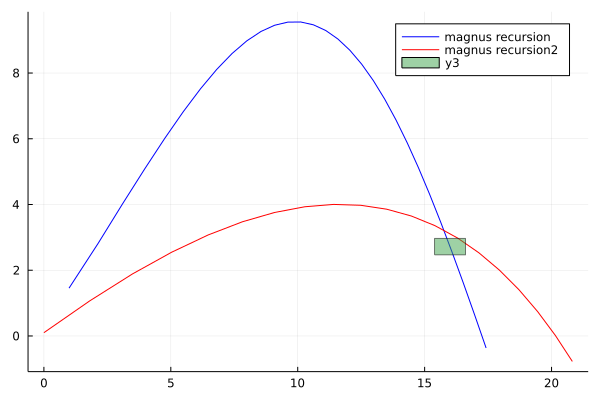
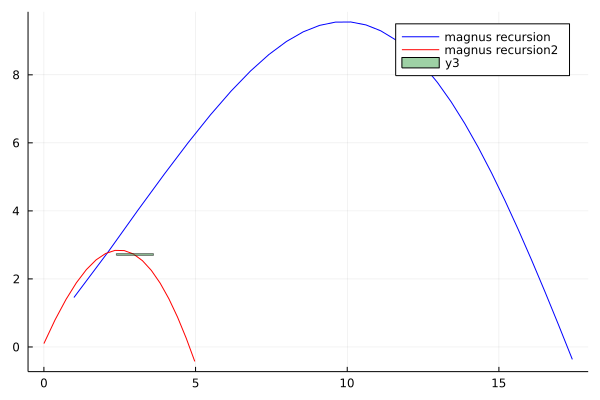
2D optimization actually finished

diff --git a/skynet-robot-libary/src/main/java/frc/robot/lib/Meth/Target.java b/skynet-robot-libary/src/main/java/frc/robot/lib/Meth/Target.java
@@ -31,18 +31,92 @@ public class Target {
         this.minimum_entry_velocity = minimum_entry_velocity;
     }
 
-    // private double LineFunction(double x, double slope, double x1, double y1) {
-    // return (slope * x) - (slope * x1) + y1;
+    // private double LineFunction(double x, double slope, double
+    // startA.getComponent(0), double startA.getComponent(1)) {
+    // return (slope * x) - (slope * startA.getComponent(0)) +
+    // startA.getComponent(1);
     // }
+
+    private static Boolean LineLine(Vector startA, Vector endA, Vector startB, Vector endB) {
+        // Boolean Avertical = (endA.getComponent(0) - startA.getComponent(0)) == 0;
+        // Boolean Bvertical = (endB.getComponent(0) - startB.getComponent(0)) == 0;
+
+        // if (!Avertical && !Bvertical) {
+        // double slopeA = (endA.getComponent(1) - startA.getComponent(1))
+        // / ((endA.getComponent(0) - startA.getComponent(0)) + 0.1);
+        // double slopeB = (endB.getComponent(1) - startB.getComponent(1))
+        // / ((endB.getComponent(0) - startB.getComponent(0)) + 0.1);
+        // double heightA = slopeA * (-startA.getComponent(0)) + startA.getComponent(1);
+        // double heightB = slopeB * (-startB.getComponent(0)) + startB.getComponent(1);
+
+        // if (slopeA == slopeB)
+        // return false;
+
+        // double interceptionX = (heightB - heightA) / ((slopeA - slopeB));
+        // double interceptionY = slopeA * (interceptionX - startA.getComponent(0)) +
+        // startA.getComponent(1);
+
+        // return ((interceptionX >= startA.getComponent(0) && interceptionX <=
+        // endA.getComponent(0))
+        // && (interceptionY >= startA.getComponent(1) && interceptionY <=
+        // endA.getComponent(1)));
+        // } else if (Avertical) {
+        // double slopeB = (endB.getComponent(1) - startB.getComponent(1))
+        // / ((endB.getComponent(0) - startB.getComponent(0)) + 0.1);
+        // Double heightB = slopeB * (-startB.getComponent(0)) + startB.getComponent(1);
+
+        // Double interceptionX = startA.getComponent(0);
+        // Double interceptionY = slopeB * startA.getComponent(0) + heightB;
+
+        // return ((interceptionX >= startA.getComponent(0) && interceptionX <=
+        // endA.getComponent(0))
+        // && (interceptionY >= startA.getComponent(1) && interceptionY <=
+        // endA.getComponent(1)));
+        // } else if (Bvertical) {
+        // double slopeA = (endA.getComponent(1) - startA.getComponent(1))
+        // / ((endA.getComponent(0) - startA.getComponent(0)) + 0.1);
+        // Double heightA = slopeA * (-startA.getComponent(0)) + startA.getComponent(1);
+
+        // Double interceptionX = startB.getComponent(0);
+        // Double interceptionY = slopeA * startB.getComponent(0) + heightA;
+
+        // return ((interceptionX >= startA.getComponent(0) && interceptionX <=
+        // endA.getComponent(0))
+        // && (interceptionY >= startA.getComponent(1) && interceptionY <=
+        // endA.getComponent(1)));
+        // } else
+        // return false;
+
+        double x1 = startA.getComponent(0); // line controlled by mouse
+        double y1 = startA.getComponent(1);
+        double x2 = endA.getComponent(0); // fixed end
+        double y2 = endA.getComponent(1);
+
+        double x3 = startB.getComponent(0); // static line
+        double y3 = startB.getComponent(1);
+        double x4 = endB.getComponent(0);
+        double y4 = endB.getComponent(1);
+
+        double uA = ((x4 - x3) * (y1 - y3) - (y4 - y3) * (x1 - x3))
+                / ((y4 - y3) * (x2 - x1) - (x4 - x3) * (y2 - y1) + 0.001);
+
+        double uB = ((x2 - x1) * (y1 - y3) - (y2 - y1) * (x1 - x3))
+                / ((y4 - y3) * (x2 - x1) - (x4 - x3) * (y2 - y1) + 0.001);
+
+        if (uA >= 0 && uA <= 1 && uB >= 0 && uB <= 1) {
+            return true;
+        }
+        return false;
+    }
 
     public Boolean check(ArrayList<State> states) {
         if (states.size() < 5)
             return false;
         Segment segment = new Segment(0.0, 0.0, 0.0, 0.0); // LX LY CX CY
-        double x_max = this.x_pos + x_size / 2.0;
-        double x_min = this.x_pos - x_size / 2.0;
-        double y_max = this.y_pos + y_size / 2.0;
-        double y_min = this.y_pos - y_size / 2.0;
+        double x_max = this.x_pos + (x_size / 2.0);
+        double x_min = this.x_pos - (x_size / 2.0);
+        double y_max = this.y_pos + (y_size / 2.0);
+        double y_min = this.y_pos - (y_size / 2.0);
 
         for (int index = 0; index < states.size(); index++) {
             segment.LX = segment.CX;
@@ -50,21 +124,25 @@ public class Target {
             segment.CX = states.get(index).position.getComponent(0);
             segment.CY = states.get(index).position.getComponent(1);
 
-            double angle_deg = Math.toDegrees(Math.atan2(segment.LY - segment.CY, segment.LX - segment.CX));
+            double angle_deg = -(Math.toDegrees(Math.atan2(segment.CY - segment.LY, segment.CX - segment.LX)));
             double velocity = new Vector(segment.CX - segment.LX, segment.CY - segment.LY).getMagnitude();
 
-            if (segment.CX >= x_min && segment.LX <= x_max) {
-                if (segment.LY >= y_min && segment.CY <= y_max) {
-                    if (true) { // Z AXIS TBD
-                        if (angle_deg >= minimum_entry_angle && angle_deg <= maximum_entry_angle) {
-                            if (velocity >= minimum_entry_velocity && velocity <= maximum_entry_velocity) {
-                                System.out.println("SEGMENTY " + segment.LY + " " + segment.CY);
-                                return true;
-                            }
+            if (LineLine(new Vector(segment.LX, segment.LY), new Vector(segment.CX, segment.CY),
+                    new Vector(x_min, y_max), new Vector(x_max, y_max))
+                    || LineLine(new Vector(segment.LX, segment.LY), new Vector(segment.CX, segment.CY),
+                            new Vector(x_min, y_min), new Vector(x_max, y_min))
+                    || LineLine(new Vector(segment.LX, segment.LY), new Vector(segment.CX, segment.CY),
+                            new Vector(x_min, y_max), new Vector(x_min, y_min))
+                    ||
+                    LineLine(new Vector(segment.LX, segment.LY), new Vector(segment.CX, segment.CY),
+                            new Vector(x_max, y_max), new Vector(x_max, y_min))) {
+                if (true) { // Z AXIS TBD
+                    if (angle_deg >= minimum_entry_angle && angle_deg <= maximum_entry_angle) {
+                        if (velocity >= minimum_entry_velocity && velocity <= maximum_entry_velocity) {
+                            return true;
                         }
                     }
                 }
-
             }
 
         }

diff --git a/skynet-robot-libary/src/main/java/frc/robot/lib/Meth/shooter_optimiztion.java b/skynet-robot-libary/src/main/java/frc/robot/lib/Meth/shooter_optimiztion.java
@@ -58,7 +58,7 @@ public final class shooter_optimiztion {
         double TopCircumference = (TopmDiameter) * Math.PI;
 
         double BottominDiameter = 4;
-        double BottommDiameter = Units.inchesToMeters(TopinDiameter);
+        double BottommDiameter = Units.inchesToMeters(BottominDiameter);
         double BottomCircumference = (BottommDiameter) * Math.PI;
 
         ///////////////////////////
@@ -66,13 +66,14 @@ public final class shooter_optimiztion {
 
         Double Angle_Resolution = 1.0; // DEGREES
         Double Rotation_Ratio_Resolution = 0.1; // PERCENTAGE
-        Double RPM_Resolution = 100.0; // RPM
+        Double RPM_Resolution = 25.0; // RPM
 
         Double Initial_Angle = (shooting_angle != OptimizationType.MAXIMIZE) ? Max_Angle : Min_Angle;
         Double Angle_Increment = (shooting_angle != OptimizationType.MAXIMIZE) ? -Angle_Resolution : Angle_Resolution;
         Double Current_Angle = Initial_Angle;
 
-        Double Initial_Rotation_Ratio = (spin_dierction != OptimizationType.MAXIMIZE) ? 1.0 : 0.0;
+        Double Initial_Rotation_Ratio = (spin_dierction != OptimizationType.MAXIMIZE) ? 1 - (Min_RPM / Max_RPM)
+                : (Min_RPM / Max_RPM);
         Double Rotation_Ratio_Increment = (spin_dierction != OptimizationType.MAXIMIZE) ? -Rotation_Ratio_Resolution
                 : Rotation_Ratio_Resolution;
         Double Current_Rotation_Ratio = (spin_dierction == OptimizationType.IGNORE) ? -1.0 : Initial_Rotation_Ratio;
@@ -106,6 +107,7 @@ public final class shooter_optimiztion {
 
                 ArrayList<State> states = projectile.simulate_ball(false);
                 Boolean result = target.check(states);
+
                 if (result) {
                     states_to_pos(states);
                 }
@@ -124,29 +126,40 @@ public final class shooter_optimiztion {
 
         Integer Attempts = 0;
 
+        Double BestTopRPM = 0.0;
+        Double BestBottomRPM = 0.0;
+        Double BestAngle = 0.0;
+
         Current_Angle = Initial_Angle;
         while (shooting_angle == OptimizationType.MAXIMIZE ? Current_Angle <= Max_Angle : Current_Angle >= Min_Angle) {
             Current_RPM = Initial_RPM;
             while (shooting_RPM == OptimizationType.MAXIMIZE ? Current_RPM <= Max_RPM : Current_RPM >= Min_RPM) {
+                Current_Rotation_Ratio = Initial_Rotation_Ratio;
+                do {
 
-                Attempts++;
-                if (full_check.run(Current_Angle, Current_RPM, Current_Rotation_Ratio)) {
-                    Failures = 0;
-                    results++;
+                    Attempts++;
+                    if (full_check.run(Current_Angle, Current_RPM, Current_Rotation_Ratio)) {
+                        Failures = 0;
+                        results++;
+                        BestTopRPM = (spin_dierction != OptimizationType.IGNORE)
+                                ? Current_RPM * Current_Rotation_Ratio
+                                : Current_RPM;
 
-                    // System.out.println("HIT> " + Current_RPM + " " + Current_Angle);
-                } else {
-                    // System.out.println("NOHIT");
-                    Failures++;
-                }
+                        BestBottomRPM = (spin_dierction != OptimizationType.IGNORE)
+                                ? Current_RPM * (1 - Current_Rotation_Ratio)
+                                : Current_RPM;
+                        BestAngle = Current_Angle;
+
+                        // System.out.println("HIT> " + Current_RPM + " " + Current_Angle);
+                    }
+                    Current_Rotation_Ratio += Rotation_Ratio_Increment;
+                } while ((spin_dierction == OptimizationType.MAXIMIZE
+                        ? Current_Rotation_Ratio <= 1.0 - (Min_RPM / Max_RPM)
+                        : Current_Rotation_Ratio >= (Min_RPM / Max_RPM)) && spin_dierction != OptimizationType.IGNORE);
                 Current_RPM += RPM_Increment;
             }
             Current_Angle += Angle_Increment;
-
-            // if (Failures > failure_tolerance && results > 0) {
-            // System.out.println("STOPPED EARLY");
-            // break;
-            // }
+            Failures++;
         }
 
         // Current_Rotation_Ratio += Rotation_Ratio_Increment;
@@ -163,6 +176,7 @@ public final class shooter_optimiztion {
 
         System.out.println((double) Duration.between(starts, Instant.now()).toMillis() / 1000);
         System.out.println("DONE, " + results + " results. " + Attempts + " attempts.");
+        System.out.println("TRPM " + BestTopRPM + "\nBRPM " + BestBottomRPM + "\nANGLE " + BestAngle);
 
     }
 }

diff --git a/skynet-robot-libary/src/main/java/frc/robot/lib/Physics/lib/Ball.java b/skynet-robot-libary/src/main/java/frc/robot/lib/Physics/lib/Ball.java
@@ -401,14 +401,15 @@ public class Ball extends PhysicalObjectBase {
         Ball ball = new Ball(0.26932047, 0.12065, 0.47, 0.1);
         ball.state.kinematics_varuibales.add(new Vector(0.0, 0.0, 0.0));
 
-        Target hub = new Target(new Vector(16.0, 2.7178, 1.0), new Vector(1.22, 0.5,
-                1.0), 999, -999, 999, -999);
+        Double Toleranced_Diameter = (1.22 / 2.0) - (ball.get_radius() * 4);
+        Target hub = new Target(new Vector(3.0, 2.7178, 0.0), new Vector(1.22 - (ball.get_radius() * 4.0), 0.05,
+                1.0), 50, 25, 999, -999);
         shooter_optimiztion.optimize(ball, hub,
-                OptimizationType.MINIMIZE, OptimizationType.MINIMIZE,
-                OptimizationType.IGNORE,
+                OptimizationType.MINIMIZE, OptimizationType.MINIMIZE, OptimizationType.MAXIMIZE,
                 OptimizationType.IGNORE, OptimizationType.IGNORE, OptimizationType.IGNORE,
-                90.0, 45.0, 5000.0, 0.0);
+                90.0, 45.0, 5000.0, 2000.0);
 
+        System.out.println(Toleranced_Diameter);
         // ball.set_position(new Vector(0.0, 0.1, 0.0));
         // ball.set_started_velocity(new Vector(15.688027284833968, 17.37157334954557,
         // 0.0));
